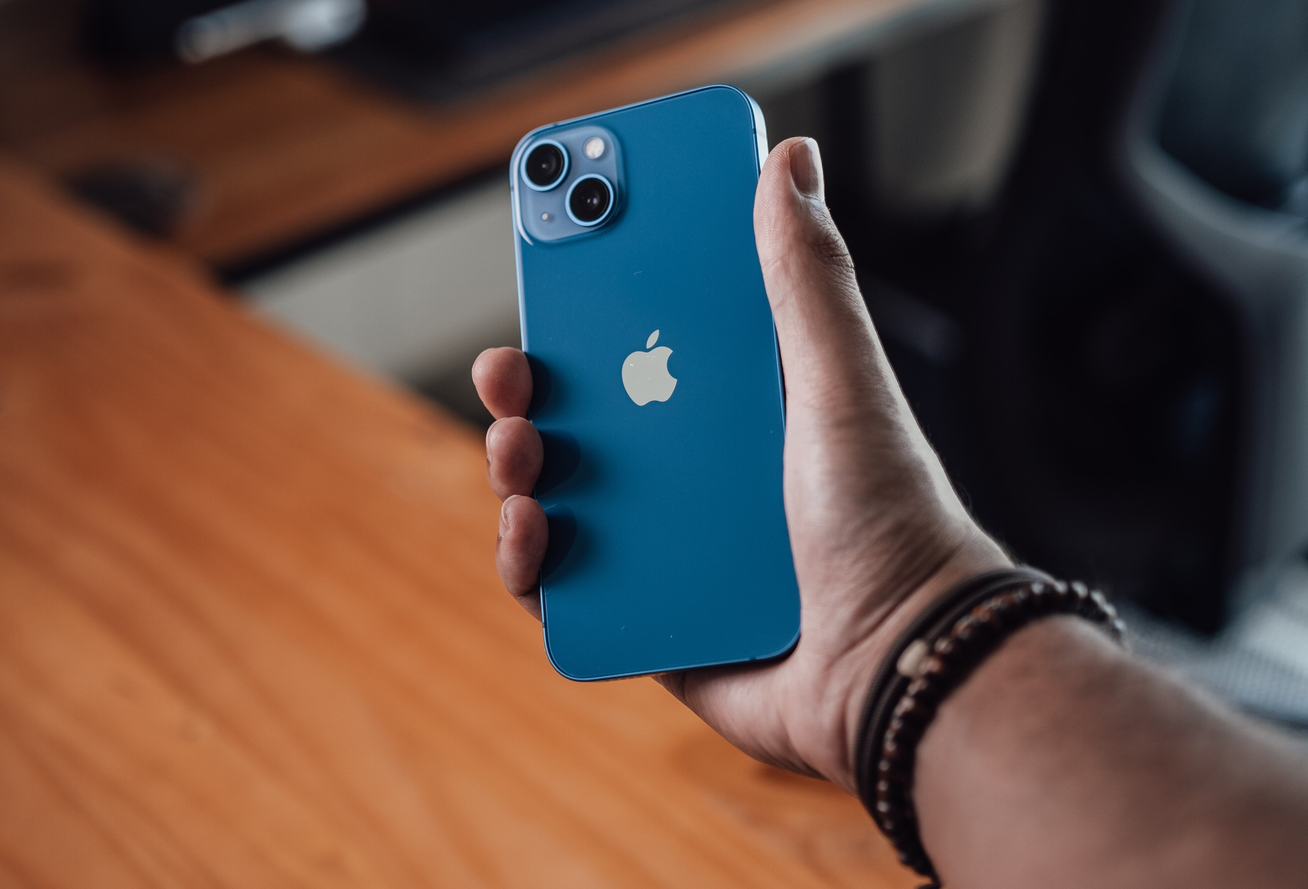
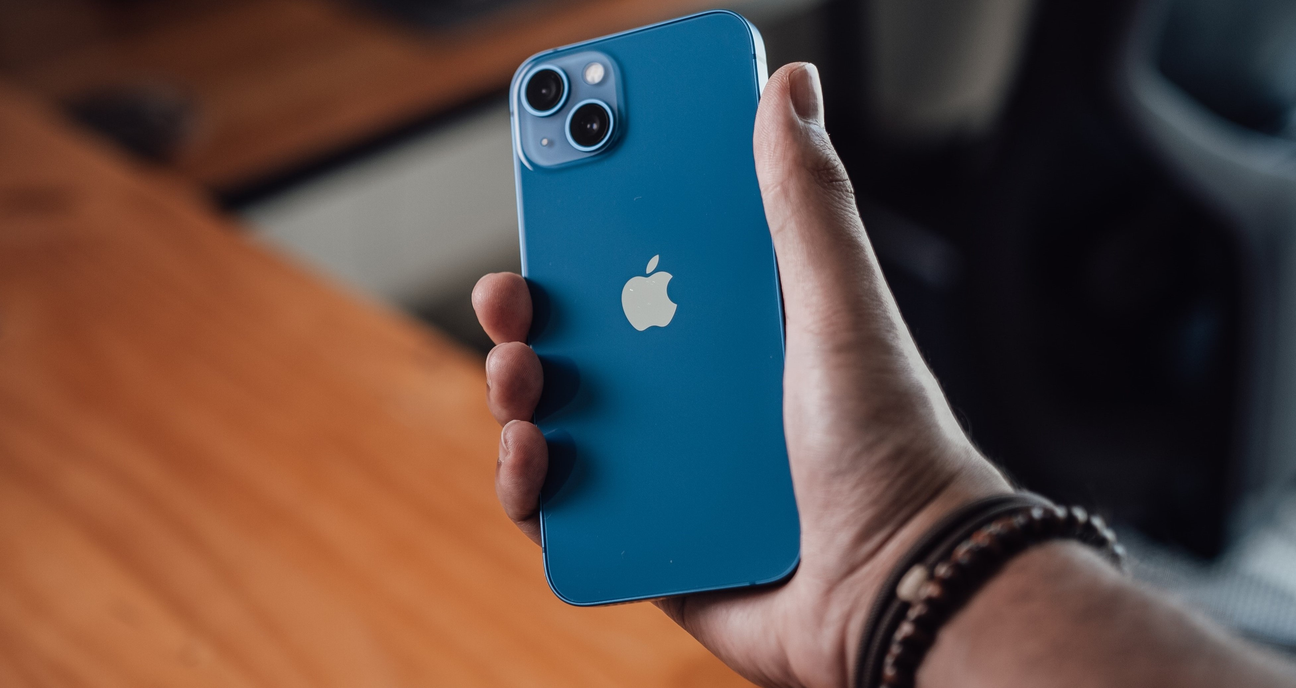
about section updated

diff --git a/responsive.html b/responsive.html
@@ -102,6 +102,9 @@
                     Inventore harum neque odit vero dolorum cumque officia sequi,
                      dicta praesentium nostrum numquam. Molestiae ab alias in 
                      Lorem ipsum dolor, sit amet consectetur adipisicing elit. 
+                     Inventore harum neque odit vero dolorum cumque officia sequi,
+                     dicta praesentium nostrum numquam. Molestiae ab alias in 
+                     Lorem ipsum dolor, sit amet consectetur adipisicing elit. 
  
                    
                 

diff --git a/responcive.css b/responcive.css
@@ -24,7 +24,7 @@
 }
 .abtimg{
  
-  width: 80%;
-  height:30vh;
+  
+  height:35vh;
   /* margin-left: 5%; */
 }
